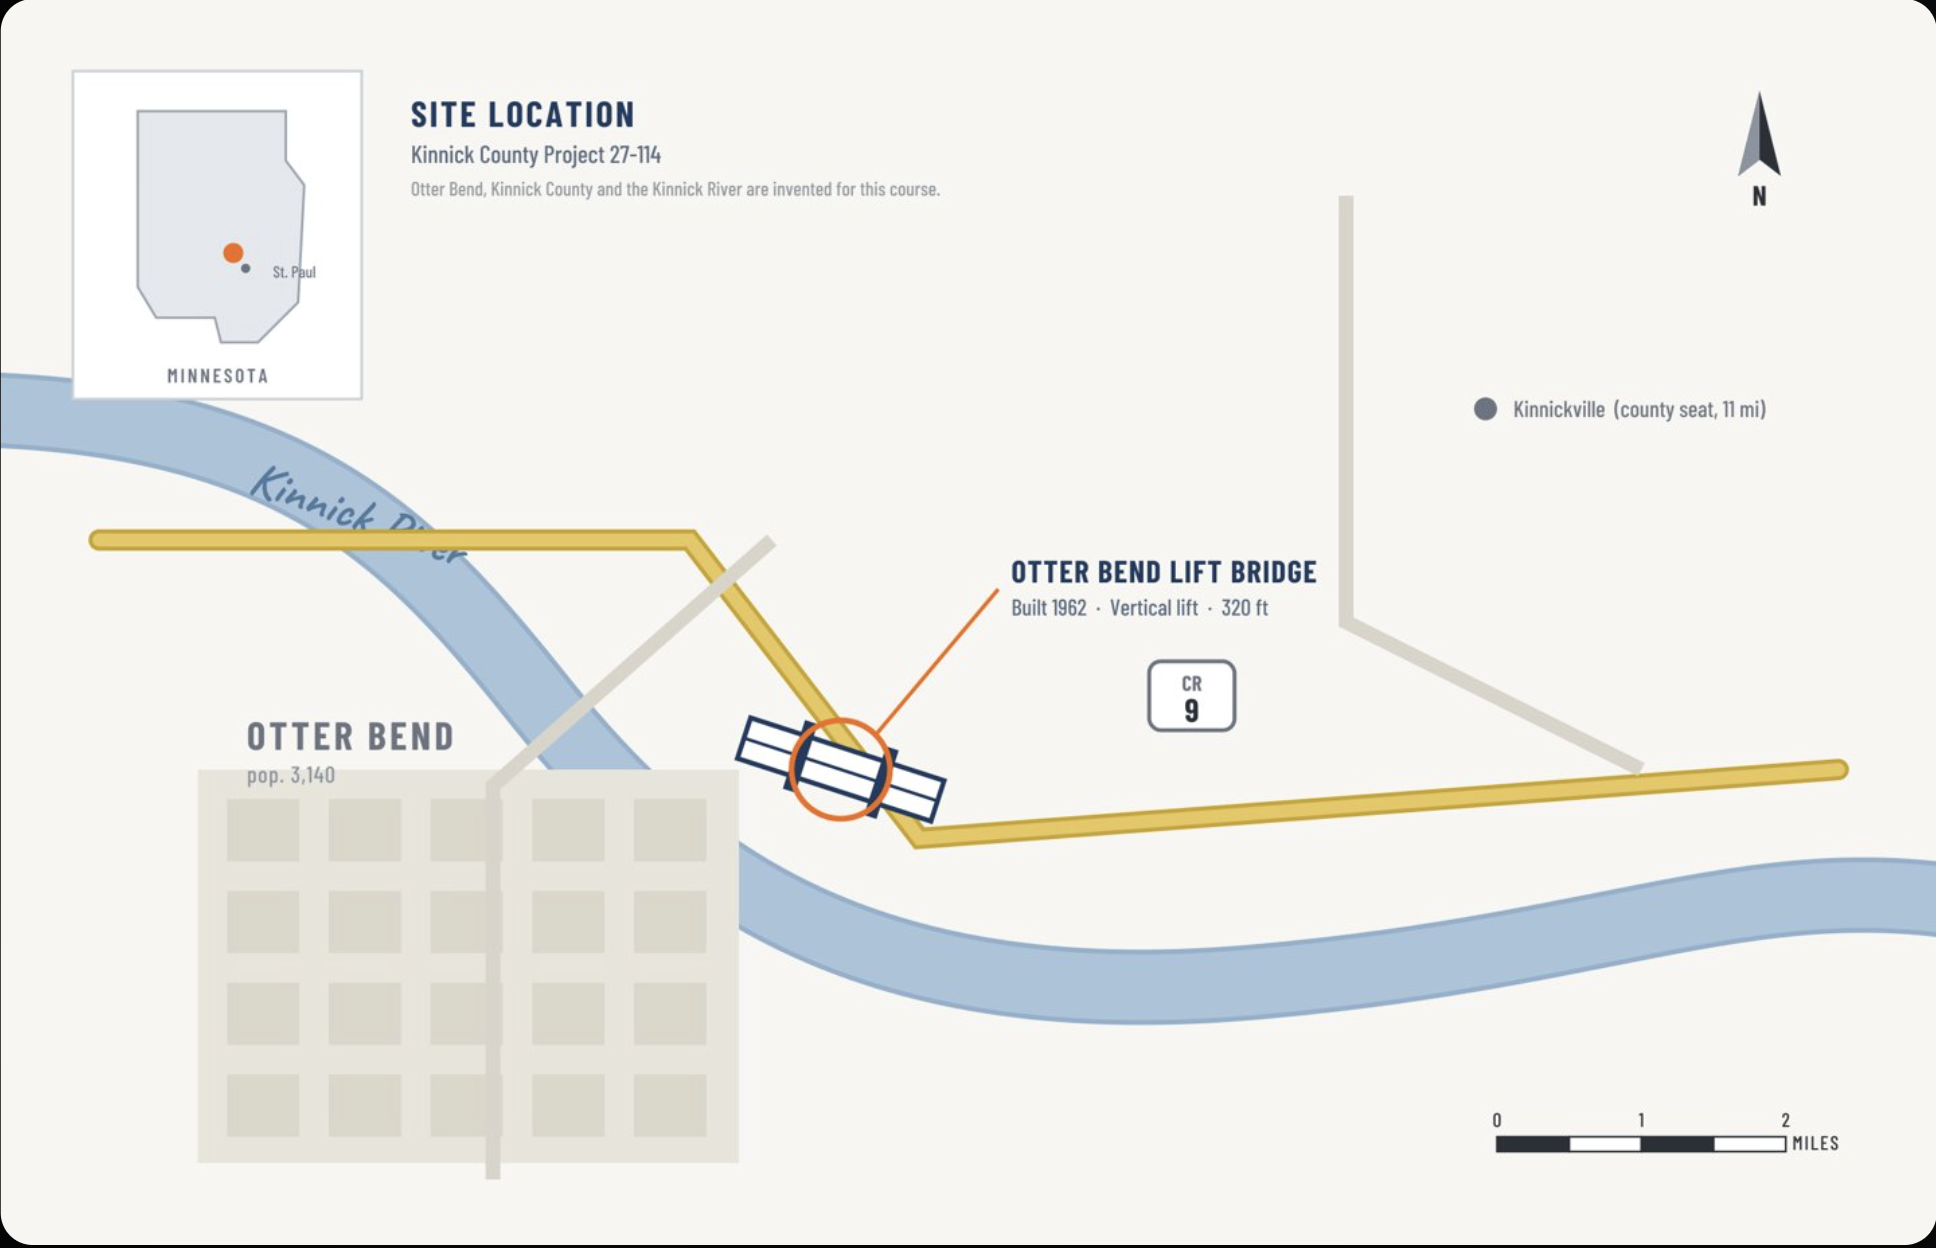
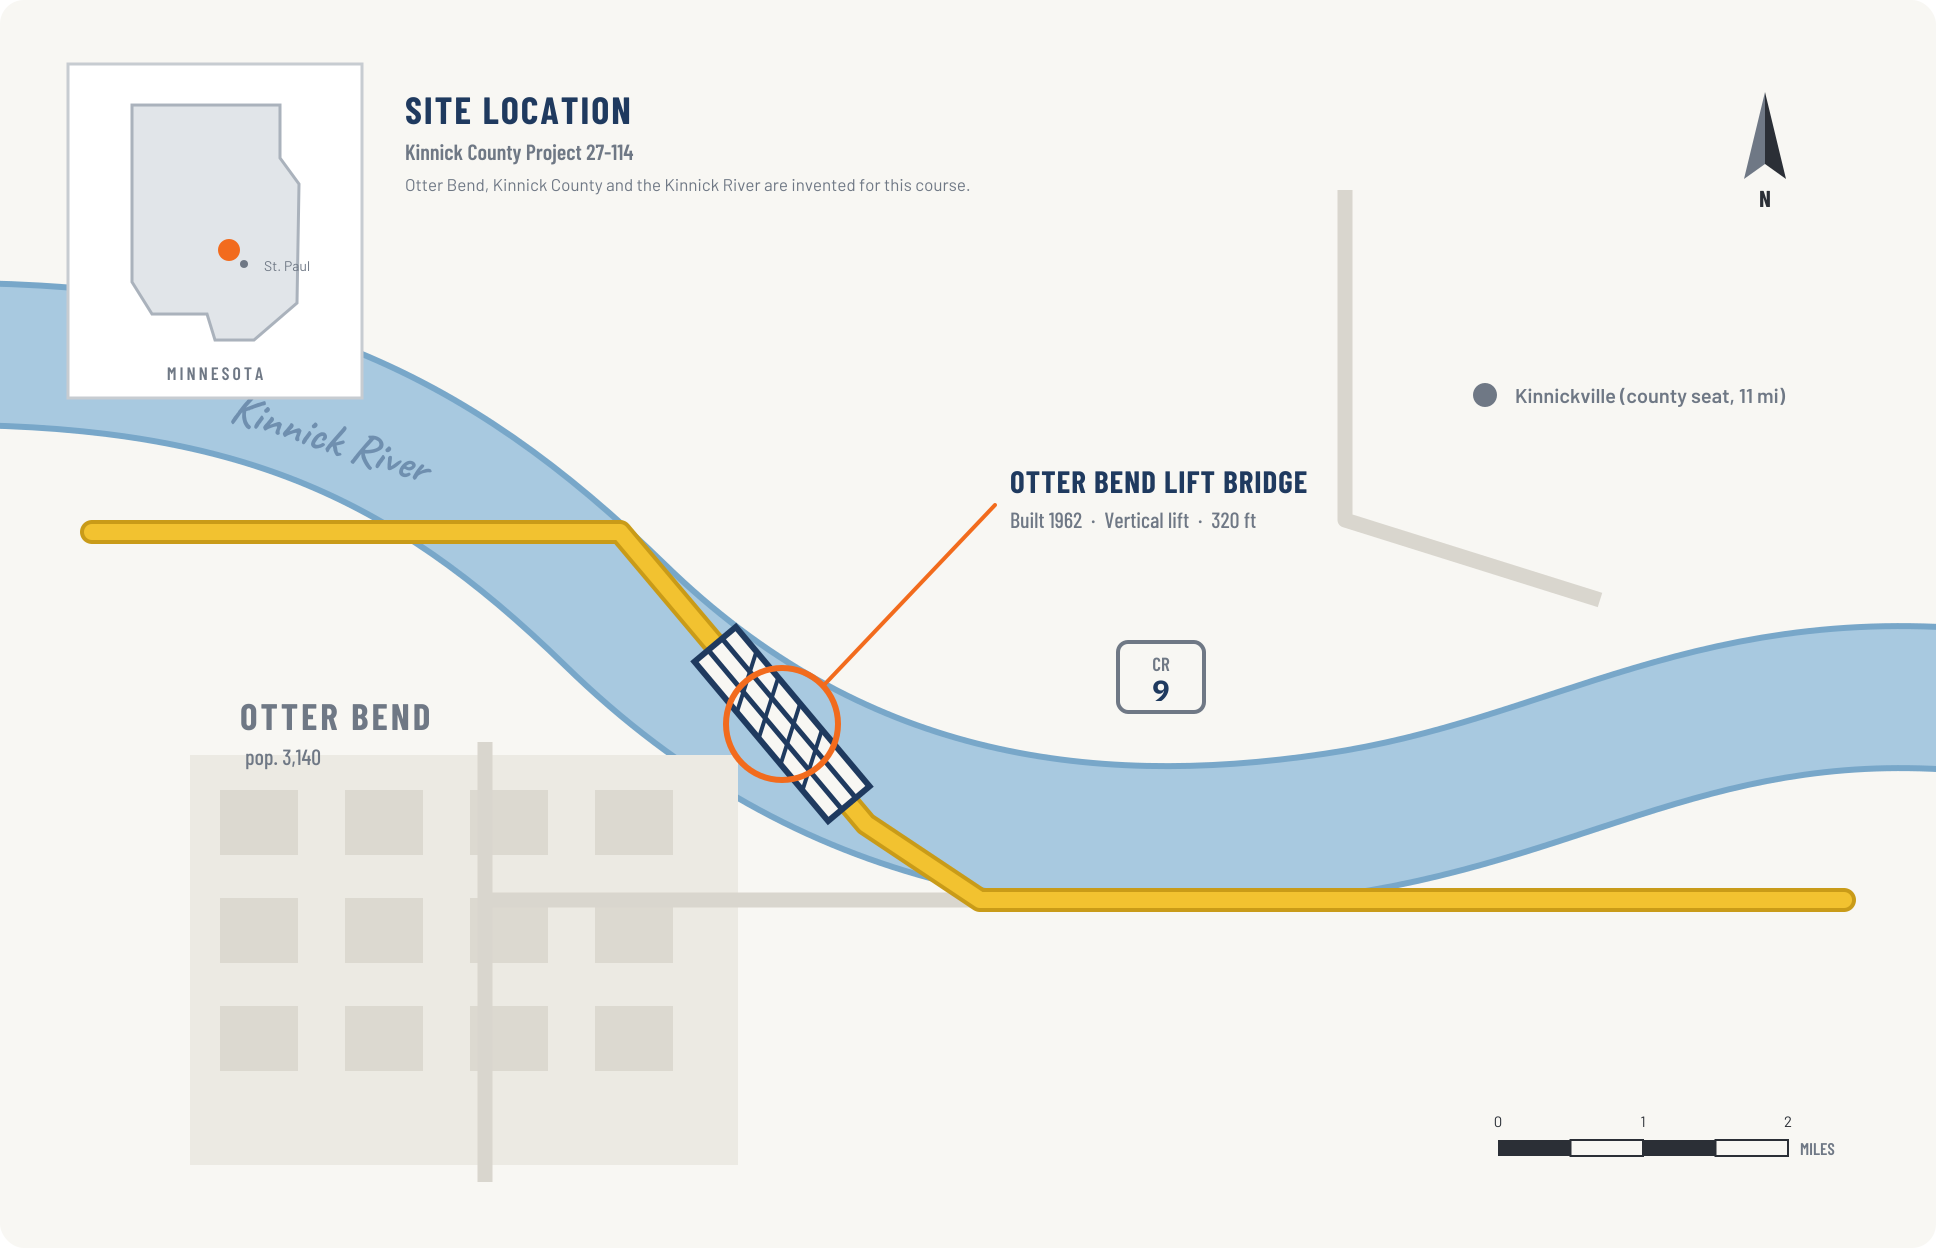
Fix Otter Bend lift bridge map crossing

diff --git a/tools/teaching-pack/generate_site_map.py b/tools/teaching-pack/generate_site_map.py
@@ -1,0 +1,188 @@
+"""Generate the Otter Bend site-location schematic.
+
+The bridge geometry is deliberately explicit here: County Road 9 crosses the
+Kinnick River, and the lift-bridge symbol is centered on that crossing.
+"""
+
+from pathlib import Path
+import sys
+
+import cairosvg
+
+HERE = Path(__file__).resolve().parent
+sys.path.insert(0, str(HERE))
+
+from brand import (  # noqa: E402
+    B400,
+    B600,
+    BC500,
+    BC600,
+    BC700,
+    CAV700,
+    GIRDER,
+    MONO700,
+    RIVER,
+    STICKER,
+    text_path,
+)
+
+W, H = 1936, 1248
+CREAM = "#F8F7F3"
+WATER = "#A8C9E0"
+WATER_EDGE = "#78A7C9"
+ROAD = "#F2C230"
+ROAD_EDGE = "#C99B18"
+SECONDARY = "#D9D6CE"
+TOWN = "#E4E1D8"
+MUTED = "#6F7885"
+INK = "#2B2F36"
+
+
+def label(font, text, size, x, y, color=GIRDER, **kwargs):
+    return text_path(font, text, size, x, y, color, **kwargs)
+
+
+parts = [f'<rect width="{W}" height="{H}" rx="24" fill="{CREAM}"/>']
+
+# Kinnick River: the map's dominant geographic feature.
+river_path = (
+    "M -80 354 "
+    "C 250 350 425 430 615 615 "
+    "C 830 825 1080 862 1335 824 "
+    "C 1580 788 1715 665 2015 705"
+)
+parts += [
+    f'<path d="{river_path}" fill="none" stroke="{WATER_EDGE}" '
+    'stroke-width="148" stroke-linecap="round"/>',
+    f'<path d="{river_path}" fill="none" stroke="{WATER}" '
+    'stroke-width="136" stroke-linecap="round"/>',
+    label(CAV700, "Kinnick River", 45, 228, 420, RIVER, extra='transform="rotate(18 228 420)"'),
+]
+
+# Otter Bend street grid.
+parts += [
+    '<rect x="190" y="755" width="548" height="410" fill="#ECEAE3"/>',
+    '<g fill="#DCD9D0">',
+]
+for row in range(3):
+    for col in range(4):
+        x = 220 + col * 125
+        y = 790 + row * 108
+        parts.append(f'<rect x="{x}" y="{y}" width="78" height="65"/>')
+parts += [
+    "</g>",
+    f'<path d="M 485 742 V 1182" stroke="{SECONDARY}" stroke-width="15"/>',
+    f'<path d="M 485 900 H 980" stroke="{SECONDARY}" stroke-width="15"/>',
+    label(BC700, "OTTER BEND", 37, 240, 730, MUTED, tracking=3),
+    label(BC500, "pop. 3,140", 22, 245, 765, MUTED),
+]
+
+# Quiet secondary road and Kinnickville.
+parts += [
+    f'<path d="M 1345 190 V 520 L 1600 600" fill="none" stroke="{SECONDARY}" '
+    'stroke-width="15" stroke-linejoin="round"/>',
+    f'<circle cx="1485" cy="395" r="12" fill="{MUTED}"/>',
+    label(B600, "Kinnickville (county seat, 11 mi)", 20, 1515, 403, MUTED),
+]
+
+# County Road 9. Its diagonal segment visibly crosses both river banks.
+road_path = "M 92 532 H 620 L 866 824 L 980 900 H 1844"
+parts += [
+    f'<path d="{road_path}" fill="none" stroke="{ROAD_EDGE}" stroke-width="24" '
+    'stroke-linecap="round" stroke-linejoin="round"/>',
+    f'<path d="{road_path}" fill="none" stroke="{ROAD}" stroke-width="16" '
+    'stroke-linecap="round" stroke-linejoin="round"/>',
+]
+
+# CR 9 shield.
+parts += [
+    f'<rect x="1118" y="642" width="86" height="70" rx="10" fill="{CREAM}" '
+    f'stroke="{MUTED}" stroke-width="4"/>',
+    label(BC600, "CR", 19, 1161, 671, MUTED, anchor="middle"),
+    label(MONO700, "9", 29, 1161, 701, GIRDER, anchor="middle"),
+]
+
+# Lift bridge centered on the road/river crossing. The long bridge deck spans
+# the full water band, while the orange circle and callout identify the site.
+bridge_x, bridge_y = 782, 724
+parts += [
+    f'<g transform="rotate(50 {bridge_x} {bridge_y})">',
+    f'<rect x="{bridge_x - 104}" y="{bridge_y - 27}" width="208" height="54" '
+    f'fill="{CREAM}" stroke="{GIRDER}" stroke-width="6"/>',
+    f'<path d="M {bridge_x - 104} {bridge_y - 9} H {bridge_x + 104} '
+    f'M {bridge_x - 104} {bridge_y + 9} H {bridge_x + 104}" '
+    f'stroke="{GIRDER}" stroke-width="5"/>',
+    f'<path d="M {bridge_x - 72} {bridge_y - 27} L {bridge_x - 38} {bridge_y + 27} '
+    f'M {bridge_x - 38} {bridge_y - 27} L {bridge_x - 4} {bridge_y + 27} '
+    f'M {bridge_x - 4} {bridge_y - 27} L {bridge_x + 30} {bridge_y + 27} '
+    f'M {bridge_x + 30} {bridge_y - 27} L {bridge_x + 64} {bridge_y + 27}" '
+    f'stroke="{GIRDER}" stroke-width="4"/>',
+    "</g>",
+    f'<circle cx="{bridge_x}" cy="{bridge_y}" r="56" fill="none" '
+    f'stroke="{STICKER}" stroke-width="6"/>',
+    f'<path d="M 824 685 L 995 505" fill="none" stroke="{STICKER}" '
+    'stroke-width="4" stroke-linecap="round"/>',
+    label(BC700, "OTTER BEND LIFT BRIDGE", 31, 1010, 493, GIRDER, tracking=1),
+    label(BC500, "Built 1962  ·  Vertical lift  ·  320 ft", 22, 1010, 528, MUTED),
+]
+
+# Title and fictional-place disclaimer.
+parts += [
+    label(BC700, "SITE LOCATION", 38, 405, 124, GIRDER, tracking=2),
+    label(BC600, "Kinnick County Project 27-114", 22, 405, 160, MUTED),
+    label(
+        B400,
+        "Otter Bend, Kinnick County and the Kinnick River are invented for this course.",
+        17,
+        405,
+        191,
+        MUTED,
+    ),
+]
+
+# Minnesota locator inset.
+parts += [
+    '<rect x="68" y="64" width="294" height="334" fill="#FFFFFF" '
+    'stroke="#C7CCD1" stroke-width="3"/>',
+    '<path d="M 132 105 L 280 105 L 280 158 L 299 184 L 297 303 '
+    'L 254 340 L 215 340 L 207 314 L 152 314 L 132 282 Z" '
+    'fill="#E1E5E9" stroke="#AAB2BC" stroke-width="3"/>',
+    f'<circle cx="229" cy="250" r="11" fill="{STICKER}"/>',
+    f'<circle cx="244" cy="264" r="4" fill="{MUTED}"/>',
+    label(B400, "St. Paul", 14, 264, 271, MUTED),
+    label(BC600, "MINNESOTA", 18, 215, 380, MUTED, tracking=3, anchor="middle"),
+]
+
+# North arrow.
+parts += [
+    f'<path d="M 1765 92 L 1744 179 L 1765 164 Z" fill="{MUTED}"/>',
+    f'<path d="M 1765 92 L 1786 179 L 1765 164 Z" fill="{INK}"/>',
+    label(BC700, "N", 23, 1765, 207, INK, anchor="middle"),
+]
+
+# Two-mile scale.
+scale_x, scale_y = 1498, 1140
+parts += [
+    label(B400, "0", 15, scale_x, scale_y - 13, INK, anchor="middle"),
+    label(B400, "1", 15, scale_x + 145, scale_y - 13, INK, anchor="middle"),
+    label(B400, "2", 15, scale_x + 290, scale_y - 13, INK, anchor="middle"),
+    f'<rect x="{scale_x}" y="{scale_y}" width="72.5" height="16" fill="{INK}"/>',
+    f'<rect x="{scale_x + 72.5}" y="{scale_y}" width="72.5" height="16" '
+    f'fill="{CREAM}" stroke="{INK}" stroke-width="2"/>',
+    f'<rect x="{scale_x + 145}" y="{scale_y}" width="72.5" height="16" fill="{INK}"/>',
+    f'<rect x="{scale_x + 217.5}" y="{scale_y}" width="72.5" height="16" '
+    f'fill="{CREAM}" stroke="{INK}" stroke-width="2"/>',
+    label(BC600, "MILES", 17, scale_x + 302, scale_y + 15, MUTED),
+]
+
+svg = (
+    f'<svg xmlns="http://www.w3.org/2000/svg" width="{W}" height="{H}" '
+    f'viewBox="0 0 {W} {H}">{"".join(parts)}</svg>'
+)
+
+source_png = HERE / "bridge" / "otter-bend-site-location.png"
+published_png = HERE.parent.parent / "teaching-pack" / "06-BRIDGE" / source_png.name
+for output in (source_png, published_png):
+    output.parent.mkdir(parents=True, exist_ok=True)
+    cairosvg.svg2png(bytestring=svg.encode(), write_to=str(output), output_width=W, output_height=H)
+    print(output.relative_to(HERE.parent.parent))
